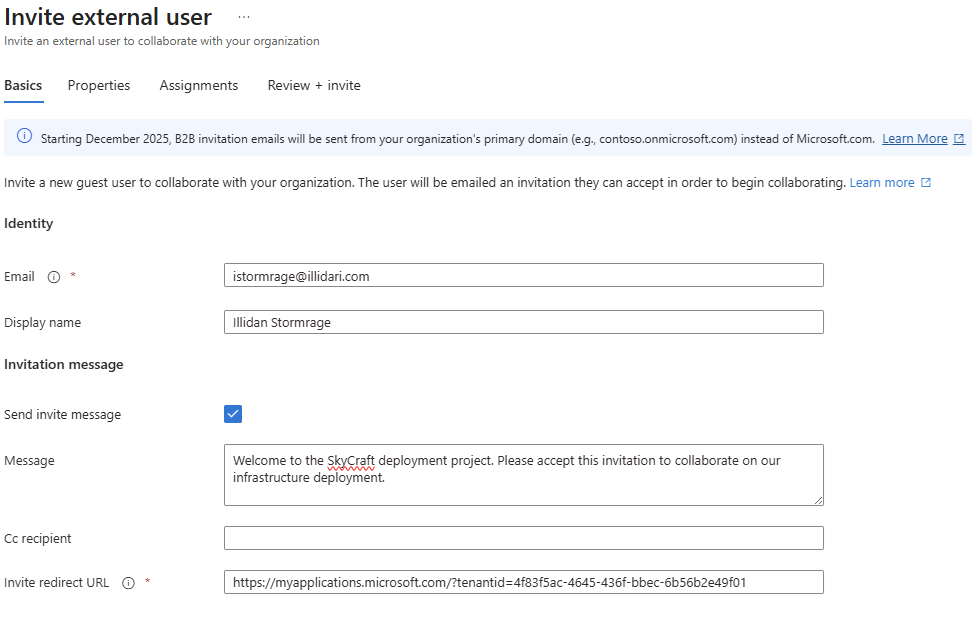
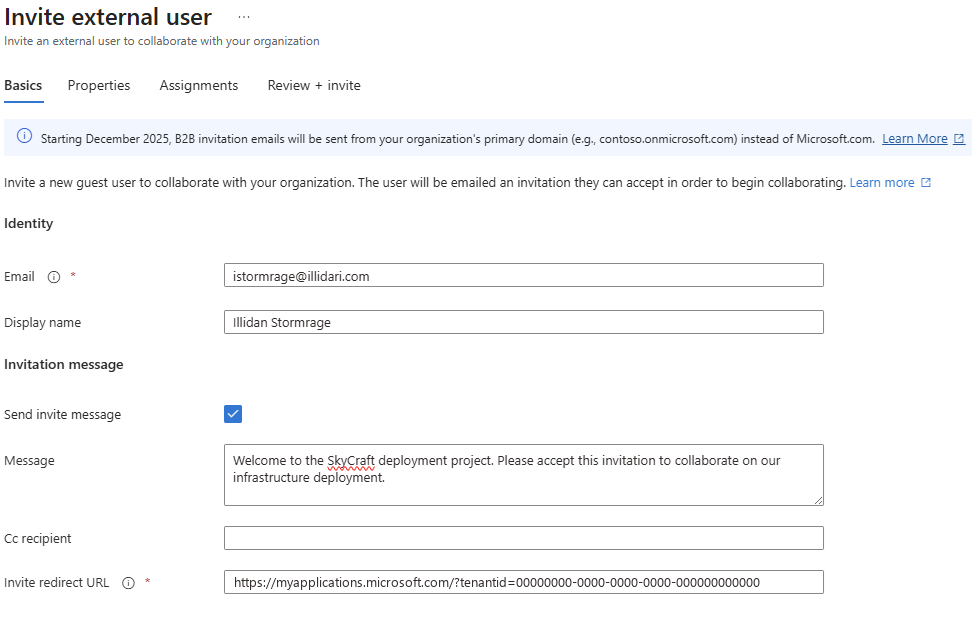
docs(lab-1.1): bring the guide in line with the Azure Portal (#215)
## Summary

Brings lab 1.1's guide in line with the Azure Portal as observed on
2026-10-06 (#205), and marks
the 1.1.5 message and the 1.1.7 member as input (#195).

- Every step starts where the previous one ends: the steps that change
area go back through
"Search for **Microsoft Entra ID** in the top search bar" and the Manage
group of the menu.
- 1.1.2-1.1.4: **Auto-generate password** is cleared first (a table
row), the field is
**Password**, and the form ends with **Review + create**, then
**Create**; 1.1.4 is written
  out in full.
- 1.1.5: **Send invite message** and **Message** are rows of the table;
**Review + invite**,
  then **Invite**.
- 1.1.6-1.1.9: each group's member is picked in the New Group form (**No
members selected**,
bold member name, **Select**), then **Create**; this matches the
existing 1.1.7 screenshot.
- 1.1.10: **Edit properties**, **Job Information** tab, **Office
location**, plus
  **Company name** as the screenshot shows; an Expected Result.
- 1.1.11: review only - the user's Licenses blade no longer assigns
licenses (the Microsoft 365
admin center does). Prerequisites, objectives, time list, Section 3
heading, Lab Summary,
  checklists, troubleshooting and ARCHITECTURE.md follow.
- 1.1.12-1.1.14: way back to Microsoft Entra ID, "nothing to save" when
All is already set,
  **External collaboration settings**, an Expected Result for 1.1.14.
- Screenshots 1.1.2, 1.1.5, 1.1.7, 1.1.9 and 1.1.10a: the test tenant's
domain, id and group
[…]

Changed region(s): [[0.2469, 0.9076, 0.7716, 0.9379]]

diff --git a/module-1-identities-governance/1.1-entra-users-groups/lab-guide-1.1.md b/module-1-identities-governance/1.1-entra-users-groups/lab-guide-1.1.md
@@ -6,7 +6,7 @@ By completing this lab, you will:
 
 - Create individual users in Microsoft Entra ID
 - Create security groups and assign members
-- Manage user properties and licenses
+- Manage user properties and review licenses
 - Understand delegated administration
 - Set up the identity structure for the SkyCraft team
 
@@ -41,7 +41,7 @@ You'll set up the following identity structure in Microsoft Entra ID:
 
 - **Section 1**: Create individual users (45 min)
 - **Section 2**: Create security groups (30 min)
-- **Section 3**: Assign licenses and properties (30 min)
+- **Section 3**: Update user properties and review licenses (30 min)
 - **Section 4**: Set up external access (15 min)
 - **Hands-on Practice**: Recreate from scratch (30 min)
 - **Validation**: Complete checklist (30 min)
@@ -52,7 +52,6 @@ You'll set up the following identity structure in Microsoft Entra ID:
 
 - [ ] Azure Portal access
 - [ ] Global Administrator or User Administrator role
-- [ ] Tenant with at least 5 user licenses available
 - [ ] Understanding of user vs. group concepts
 
 ---
@@ -62,24 +61,25 @@ You'll set up the following identity structure in Microsoft Entra ID:
 ### Step 1.1.1: Access Microsoft Entra ID
 
 1. Open **Azure Portal** (https://portal.azure.com)
-2. Search for **"Microsoft Entra ID"** in the search bar
+2. Search for **Microsoft Entra ID** in the search bar
 3. Click on the result to open the Entra ID admin center
 
 **Expected Result**: You see the Entra ID dashboard with options for Users, Groups, and Roles.
 
 ### Step 1.1.2: Create First User (Malfurion Stormrage)
 
-1. In the left sidebar, click **Users** → **All users**
+1. In the left menu, open the Manage group and click **Users** → **All users**
 2. Click **+ New user** → **Create new user**
-3. Fill in the following details:
+3. Fill in the following details (clear Auto-generate password first, or the password field stays read-only):
 
-| Field               | Value                                            |
-| ------------------- | ------------------------------------------------ |
-| User principal name | malfurion.stormrage@[yourtenant].onmicrosoft.com |
-| Display name        | Malfurion Stormrage                              |
-| Password (initial)  | LoveAzeroth!2004                                 |
+| Field                  | Value                                            |
+| ---------------------- | ------------------------------------------------ |
+| User principal name    | malfurion.stormrage@[yourtenant].onmicrosoft.com |
+| Display name           | Malfurion Stormrage                              |
+| Auto-generate password | ☐ Unchecked                                      |
+| Password               | LoveAzeroth!2004                                 |
 
-4. Click **Create**
+4. Click **Review + create**, then **Create**
 
 **Expected Result**: New user appears in the user list with "Malfurion Stormrage" display name.
 
@@ -90,39 +90,42 @@ You'll set up the following identity structure in Microsoft Entra ID:
 1. Click **+ New user** → **Create new user**
 2. Fill in the details:
 
-| Field               | Value                                         |
-| ------------------- | --------------------------------------------- |
-| User principal name | khadgar.archmage@[yourtenant].onmicrosoft.com |
-| Display name        | Khadgar Archmage                              |
-| Password            | LoveAzeroth!2004                              |
+| Field                  | Value                                         |
+| ---------------------- | --------------------------------------------- |
+| User principal name    | khadgar.archmage@[yourtenant].onmicrosoft.com |
+| Display name           | Khadgar Archmage                              |
+| Auto-generate password | ☐ Unchecked                                   |
+| Password               | LoveAzeroth!2004                              |
 
-3. Click **Create**
+3. Click **Review + create**, then **Create**
 
 ### Step 1.1.4: Create Third User (Chromie Timewalker)
 
-Repeat the process with:
+1. Click **+ New user** → **Create new user**
+2. Fill in the details:
 
-| Field               | Value                                           |
-| ------------------- | ----------------------------------------------- |
-| User principal name | chromie.timewalker@[yourtenant].onmicrosoft.com |
-| Display name        | Chromie Timewalker                              |
-| Password            | LoveAzeroth!2004                                |
+| Field                  | Value                                           |
+| ---------------------- | ----------------------------------------------- |
+| User principal name    | chromie.timewalker@[yourtenant].onmicrosoft.com |
+| Display name           | Chromie Timewalker                              |
+| Auto-generate password | ☐ Unchecked                                     |
+| Password               | LoveAzeroth!2004                                |
+
+3. Click **Review + create**, then **Create**
 
 ### Step 1.1.5: Create Guest User (Illidan Stormrage)
 
 1. Click **+ New user** → **Invite external user**
 2. Fill in:
 
-| Field        | Value                   |
-| ------------ | ----------------------- |
-| Email        | istormrage@illidari.com |
-| Display name | Illidan Stormrage       |
+| Field               | Value                                                                                                                      |
+| ------------------- | -------------------------------------------------------------------------------------------------------------------------- |
+| Email               | istormrage@illidari.com                                                                                                    |
+| Display name        | Illidan Stormrage                                                                                                          |
+| Send invite message | ✅ Checked                                                                                                                 |
+| Message             | Welcome to the SkyCraft deployment project. Please accept this invitation to collaborate on our infrastructure deployment. |
 
-3. Add custom invitation message:
-
-   > "Welcome to the SkyCraft deployment project. Please accept this invitation to collaborate on our infrastructure deployment."
-
-4. Click **Invite**
+3. Click **Review + invite**, then **Invite**
 
 **Expected Result**: Invitation email sent to external partner.
 
@@ -132,11 +135,14 @@ Repeat the process with:
 
 ## 📖 Section 2: Create Security Groups (30 minutes)
 
+You add each group's member in the New Group form, before you create the group.
+
 ### Step 1.1.6: Create First Group (Admins)
 
-1. In left sidebar, click **Groups** → **All groups**
-2. Click **+ New group**
-3. Fill in:
+1. Search for **Microsoft Entra ID** in the top search bar
+2. Open it from the results, then in the left menu open the Manage group and click **Groups** → **All groups**
+3. Click **+ New group**
+4. Fill in (do not click Create yet; the member comes next):
 
 | Field             | Value                                           |
 | ----------------- | ----------------------------------------------- |
@@ -145,24 +151,21 @@ Repeat the process with:
 | Group description | Administrative team for SkyCraft infrastructure |
 | Membership type   | Assigned                                        |
 
+### Step 1.1.7: Add Member to Admin Group and Create It
+
+1. Under Members, click **No members selected**
+2. Search for and select **Malfurion Stormrage**
+3. Click **Select**
 4. Click **Create**
 
-### Step 1.1.7: Add Members to Admin Group
-
-1. Open the **SkyCraft-Admins** group
-2. Click **Members** → **+ Add members**
-3. Search for and select:
-   - Malfurion Stormrage
-4. Click **Select**
-
-**Expected Result**: Malfurion Stormrage now appears in group members.
+**Expected Result**: SkyCraft-Admins appears in All groups with Membership type Assigned.
 
 ![Add Members to Admin Group](./images/Step-1.1.7.png)
 
 ### Step 1.1.8: Create Second Group (Developers)
 
 1. Click **+ New group**
-2. Create group with details:
+2. Fill in:
 
 | Field             | Value                                    |
 | ----------------- | ---------------------------------------- |
@@ -171,12 +174,15 @@ Repeat the process with:
 | Group description | Development team for SkyCraft deployment |
 | Membership type   | Assigned                                 |
 
-3. Add member: **Khadgar Archmage**
+3. Under Members, click **No members selected**
+4. Search for and select **Khadgar Archmage**
+5. Click **Select**
+6. Click **Create**
 
 ### Step 1.1.9: Create Third Group (Testers)
 
 1. Click **+ New group**
-2. Create group:
+2. Fill in:
 
 | Field             | Value                       |
 | ----------------- | --------------------------- |
@@ -185,51 +191,57 @@ Repeat the process with:
 | Group description | Testing and monitoring team |
 | Membership type   | Assigned                    |
 
-3. Add member: **Chromie Timewalker**
+3. Under Members, click **No members selected**
+4. Search for and select **Chromie Timewalker**
+5. Click **Select**
+6. Click **Create**
 
 **Expected Result**: Three security groups created with appropriate members.
 
-![Add Members to Admin Group](./images/Step-1.1.9.png)
+![SkyCraft groups in All groups](./images/Step-1.1.9.png)
 
 ---
 
-## 📖 Section 3: Manage User Properties and Licenses (30 minutes)
+## 📖 Section 3: Update User Properties and Review Licenses (30 minutes)
 
 ![Manage User Properties and Licenses](./images/Step-1.1.10a.png)
 
 ### Step 1.1.10: Configure User Properties
 
-1. Open **All Users** and click on **Malfurion Stormrage**
-2. In the **Manage** section, click **Properties**
-3. Update the following:
+1. Search for **Microsoft Entra ID** in the top search bar
+2. Open it from the results, then in the left menu open the Manage group and click **Users** → **All users**
+3. Click **Malfurion Stormrage**
+4. Click **Edit properties**
+5. On the **Job Information** tab, update the following:
 
-| Property   | Value                        |
-| ---------- | ---------------------------- |
-| Job title  | Cloud Infrastructure Manager |
-| Department | IT Operations                |
-| Office     | Remote                       |
-| Manager    | [Leave blank]                |
+| Property        | Value                        |
+| --------------- | ---------------------------- |
+| Job title       | Cloud Infrastructure Manager |
+| Company name    | SkyCraft                     |
+| Department      | IT Operations                |
+| Office location | Remote                       |
 
-4. Click **Save**
+6. Click **Save**
+
+**Expected Result**: Malfurion Stormrage's profile shows Job title Cloud Infrastructure Manager, Company name SkyCraft, Department IT Operations and Office location Remote.
 
 ![Manage User Properties and Licenses](./images/Step-1.1.10b.png)
 
 ### Step 1.1.11: Review License Information
 
-1. Click **Licenses** in the admin user's profile
+1. In Malfurion Stormrage's profile, click **Licenses** in the left menu
 2. Note the current license status
-3. If licenses are available, click **+ Assignments**
-4. Select a license (e.g., Azure AD Premium P1)
-5. Click **Save**
 
-**Expected Result**: License assignment shows in the user's profile.
+The blade only lists licenses: assignments are added and removed in the Microsoft 365 admin center, which its link opens. You do not assign a license in this lab.
+
+**Expected Result**: You can see which licenses, if any, are assigned to the user.
 
 ### Step 1.1.12: Configure SSPR (Self-Service Password Reset)
 
-1. Go back to **Microsoft Entra ID** home page
-2. Click **Password reset** in the left sidebar
-3. Click **All** to enable for all users
-4. Click **Save**
+1. Search for **Microsoft Entra ID** in the top search bar
+2. Open it from the results, then in the left menu open the Manage group and click **Password reset**
+3. Under "Self service password reset enabled", click **All** to enable for all users
+4. Click **Save** (if All was already selected, Save stays unavailable: there is nothing to save)
 
 **Expected Result**: All users can now reset their own passwords using SSPR.
 
@@ -242,17 +254,21 @@ Repeat the process with:
 ### Step 1.1.13: Accept Guest Invitation (Simulated)
 
 1. In production, the external partner would receive an email
-2. They would click the invitation link and sign in
-3. For this lab, navigate to **All Users** and verify the guest user status
+2. They would click the invitation link and sign in; for this lab, you check the guest yourself
+3. Search for **Microsoft Entra ID** in the top search bar
+4. Open it from the results, then in the left menu open the Manage group and click **Users** → **All users**
+5. Find Illidan Stormrage and check the User type column
 
-**Expected Result**: Guest user appears in the user list with "Guest" designation.
+**Expected Result**: Guest user appears in the user list with "Guest" in the User type column.
 
 ### Step 1.1.14: Review B2B Collaboration Settings
 
-1. Go back to Microsoft Entra ID home page
-2. Click **External Identities** in left sidebar
-3. Click **External Collaboration Settings**
+1. Search for **Microsoft Entra ID** in the top search bar
+2. Open it from the results, then in the left menu open the Manage group and click **External Identities**
+3. Click **External collaboration settings**
 4. Review the current settings for guest access
+
+**Expected Result**: You see the guest user access and guest invite settings of your tenant.
 
 ![Review B2B Collaboration Settings](./images/Step-1.1.14.png)
 
@@ -267,9 +283,9 @@ Complete this checklist to verify you've successfully completed the lab:
 - [ ] Created 3 security groups (Admins, Developers, Testers)
 - [ ] Added appropriate users to each group
 - [ ] Updated user properties (job title, department)
-- [ ] Assigned licenses to at least one user
+- [ ] Reviewed the license status of a user
 - [ ] Enabled SSPR for all users
-- [ ] All 4 users appear in the "All Users" list
+- [ ] All 4 users appear in the "All users" list
 - [ ] All 3 groups appear with correct members
 - [ ] No errors in the audit log
 
@@ -287,10 +303,10 @@ Complete this checklist to verify you've successfully completed the lab:
 - **Solution**: Ensure group creation is enabled in security defaults
 - **Fix**: Entra ID → Security defaults → Turn off security defaults (if needed)
 
-**Issue**: License assignment fails
+**Issue**: The user's **Licenses** blade has no **+ Assignments** button
 
-- **Solution**: Verify licenses are available in your tenant
-- **Check**: Entra ID → Licenses → All products → View available licenses
+- **Cause**: License assignments moved to the Microsoft 365 admin center; the blade in Microsoft Entra ID only lists them
+- **Solution**: Nothing to do for this lab (step 1.1.11 only reviews the license status); assign licenses in the Microsoft 365 admin center when you need them
 
 **Issue**: The lab scripts stop at "Checking Microsoft Graph connection..." and never come back
 
@@ -336,7 +352,7 @@ Answer these questions to verify understanding:
 
 - ✅ Created identity structure for SkyCraft team (4 users, 3 groups)
 - ✅ Organized team into logical security groups
-- ✅ Configured user properties and licenses
+- ✅ Configured user properties and reviewed license status
 - ✅ Enabled self-service password reset
 - ✅ Established external collaboration framework
 

diff --git a/module-1-identities-governance/1.1-entra-users-groups/ARCHITECTURE.md b/module-1-identities-governance/1.1-entra-users-groups/ARCHITECTURE.md
@@ -17,7 +17,7 @@
 |---|---|---|---|
 | User lifecycle | Manual creation in portal (via wizard) | Automated provisioning via Entra Connect, Okta, or Workday sync; bulk import via PowerShell | Reduces toil; syncs on-premises AD or HR systems. |
 | Group membership dynamics | Assigned (manual) membership; one user per group | Dynamic groups (e.g., "all employees in Finance"), nested groups (e.g., Admin group contains Department-Admin subgroups) | Scaling to hundreds/thousands of users requires automation; nested groups model org hierarchy. |
-| License assignment | Manual assignment per user (mentioned in objectives) | Group-based licensing; conditional license provisioning | Group-based licensing avoids manual churn when users move roles. |
+| License assignment | Reviewed per user in Entra ID; assignments live in the Microsoft 365 admin center and are not made in this lab | Group-based licensing; conditional license provisioning | Group-based licensing avoids manual churn when users move roles. |
 | Guest access governance | Simple invitation with custom message | Conditional access policies, entitlement reviews, time-limited access, B2B direct connect | Guests represent external risk; production limits their scope and requires periodic access reviews. |
 | Auditing & logging | Lab does not explicitly configure audit logging | Enable Entra ID audit logs, configure Azure AD Sign-in logs, export to SIEM | Forensic trace of who accessed what and when; regulatory requirement in most enterprises. |
 

diff --git a/module-1-identities-governance/1.1-entra-users-groups/lab-checklist-1.1.md b/module-1-identities-governance/1.1-entra-users-groups/lab-checklist-1.1.md
@@ -46,25 +46,25 @@ For **Malfurion Stormrage**, verify:
 
 - [ ] Job title: Cloud Infrastructure Manager
 - [ ] Department: IT Operations
-- [ ] Office: Remote
-- [ ] Usage location: Set correctly
+- [ ] Company name: SkyCraft
+- [ ] Office location: Remote
 
 ---
 
 ## ✅ License & Feature Verification
 
-- [ ] At least one user has a license assigned
+- [ ] The license status of a user was reviewed (no assignment in this lab)
 - [ ] SSPR (Self-Service Password Reset) enabled
-- [ ] All users appear in "All Users" list
-- [ ] All groups appear in "All Groups" list
+- [ ] All users appear in "All users" list
+- [ ] All groups appear in "All groups" list
 
 ---
 
 ## ✅ Portal Navigation
 
 - [ ] Can access Entra ID from Azure Portal
-- [ ] Can navigate Users → All Users
-- [ ] Can navigate Groups → All Groups
+- [ ] Can navigate Users → All users
+- [ ] Can navigate Groups → All groups
 - [ ] Can access user properties
 - [ ] Can manage group memberships
 
